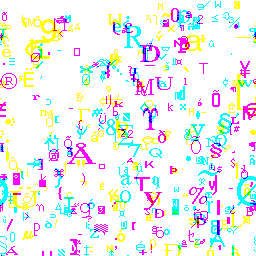
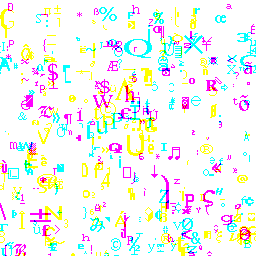
new rectangle packing vis, bugfix in loader which was missing a column

Changed region(s): [[0.0, 0.0, 1.0, 1.0], [0.0, 0.0, 0.3125, 0.4688], [0.2812, 0.0312, 0.3125, 0.0625]]

diff --git a/rectPack.cc b/rectPack.cc
@@ -1,0 +1,122 @@
+#include <iostream>
+#include <algorithm>
+
+#define STB_IMAGE_WRITE_IMPLEMENTATION
+#include "stb_image_write.h"
+
+#define STB_RECT_PACK_IMPLEMENTATION
+#include "stb_rect_pack.h"
+
+#include "letters.h"
+
+std::vector< letter > glyphs;
+std::string UintToString ( uint64_t data, int width ) {
+	std::string temp;
+	for ( int i = 0; i <= width; i++ ) {
+		temp += ( data % 2 ) ? '@' : '.';
+		data = data >> 1;
+	}
+	reverse( temp.begin(), temp.end() );
+	return temp;
+}
+
+void ReadUintModel () {
+	std::ifstream i( "uintEncoded.json" );
+	json j; i >> j;
+	for ( auto& element : j ) { // per character
+		int loadX = element[ "x" ];
+		int loadY = element[ "y" ];
+		int currentY = 0;
+		letter temp;
+		temp.data.resize( element[ "d" ].size() );
+		for ( int i = 0; i < loadY; i++ ) {
+			temp.buildrow( currentY, UintToString( element[ "d" ][ i ], loadX ) );
+			currentY++;
+		}
+		if( !temp.nfg ) {
+			glyphs.push_back( temp );
+		}
+	}
+}
+
+void GeneratePackedVis ( ) {
+	size_t max_vertical_size = 0;
+	size_t max_horizontal_size = 0;
+
+	for ( auto& letter : glyphs ) {
+		max_vertical_size = std::max( letter.data.size(), max_vertical_size );
+	}
+
+	for ( auto& letter : glyphs ) {
+		max_horizontal_size = std::max( letter.data[ 0 ].size(), max_horizontal_size );
+	}
+
+	std::cout << " height is going to be " << max_vertical_size + 2 << std::endl;
+	std::cout << " width is going to be " << max_horizontal_size + 2 << std::endl;
+
+	constexpr int num_wide = 69; // how many side to side
+	const int num_rows = int( std::ceil( static_cast< float >( glyphs.size() ) / static_cast< float >( num_wide ) ) );
+
+	int width_pixels = num_wide * max_horizontal_size;
+	int height_pixels = num_rows * max_horizontal_size;
+
+	// this is scratch space memory, from what I understand
+	std::vector< stbrp_node > nodes;
+	nodes.resize( glyphs.size() * 2 );
+	stbrp_context c;
+	stbrp_init_target( &c, width_pixels, height_pixels, &nodes[ 0 ], glyphs.size() * 2 );
+
+	int k = 0;
+	std::vector< stbrp_rect > rects;
+	for ( auto& letter : glyphs ) {
+		stbrp_rect r;
+		r.w = letter.data[ 0 ].size() + 2; // padding
+		r.h = letter.data.size() + 2;
+		r.index = k;
+		k++;
+		rects.push_back( r );
+	}
+
+	if ( stbrp_pack_rects( &c, &rects[ 0 ], glyphs.size() ) ) {
+		std::cout << "success" << std::endl;
+	}
+
+	width_pixels += 14;
+	int ymax = 0;
+	std::vector< unsigned char > image;
+	image.resize( height_pixels * width_pixels * 4, 255 );
+
+	std::random_device r;
+	std::seed_seq s{ r(), r(), r(), r(), r(), r(), r(), r(), r() };
+	std::mt19937_64 gen = std::mt19937_64( s );
+
+	std::uniform_int_distribution<int> color( 60, 189 );
+
+	for( auto& rect : rects ) {
+		int col = color( gen );
+		for( int x = 0; x < rect.w-2; x++ ) // compensate for padding
+		for( int y = 0; y < rect.h-2; y++ ) {
+			int base = ( ( x + rect.x + 7 ) + width_pixels * ( y + rect.y + 7 ) ) * 4;
+			if( glyphs[ rect.index ].data[ y ][ x ] == 1 ) {
+				image[ base + 0 ] = 0;
+				image[ base + 1 ] = 0;
+				image[ base + 2 ] = 0;
+				image[ base + 3 ] = 255;
+			}else{
+				image[ base + 0 ] = col;
+				image[ base + 1 ] = col;
+				image[ base + 2 ] = col;
+				image[ base + 3 ] = 255;
+			}
+		}
+		ymax = std::max( rect.y + rect.h + 14, ymax );
+	}
+	stbi_write_png( "rectPack.png", width_pixels, ymax, 4, &image[ 0 ], width_pixels * 4 );
+}
+
+int main ( int argc, char const *argv[] ) {
+	ReadUintModel();
+	std::cout << "loaded " << glyphs.size() << std::endl;
+	GeneratePackedVis();
+	return 0;
+}

diff --git a/gray.cc b/gray.cc
@@ -79,7 +79,8 @@ void writeGlyph ( int xin, int yin, int c, letter l ) {
 
 	long unsigned int seed = std::chrono::system_clock::now().time_since_epoch().count();
 	std::default_random_engine engine{ seed };
-	std::uniform_int_distribution< int > distribution { 128, 255 };
+	// std::uniform_int_distribution< int > distribution { 128, 255 };
+	std::uniform_int_distribution< int > distribution { 245, 255 };
 
 	for ( int y = 0; y < glyphY; y++ ) {
 		for ( int x = 0; x < glyphX; x++ ) {

diff --git a/uintLoader.cc b/uintLoader.cc
@@ -6,7 +6,7 @@
 std::vector< letter > glyphs;
 std::string UintToString ( uint64_t data, int width ) {
 	std::string temp;
-	for ( int i = 0; i < width; i++ ) {
+	for ( int i = 0; i <= width; i++ ) {
 		temp += ( data % 2 ) ? '@' : '.';
 		data = data >> 1;
 	}
